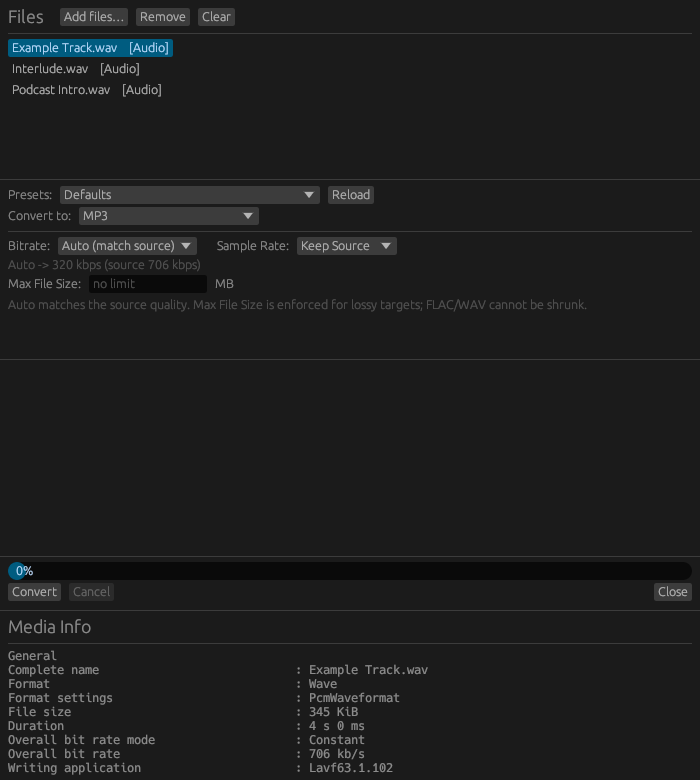
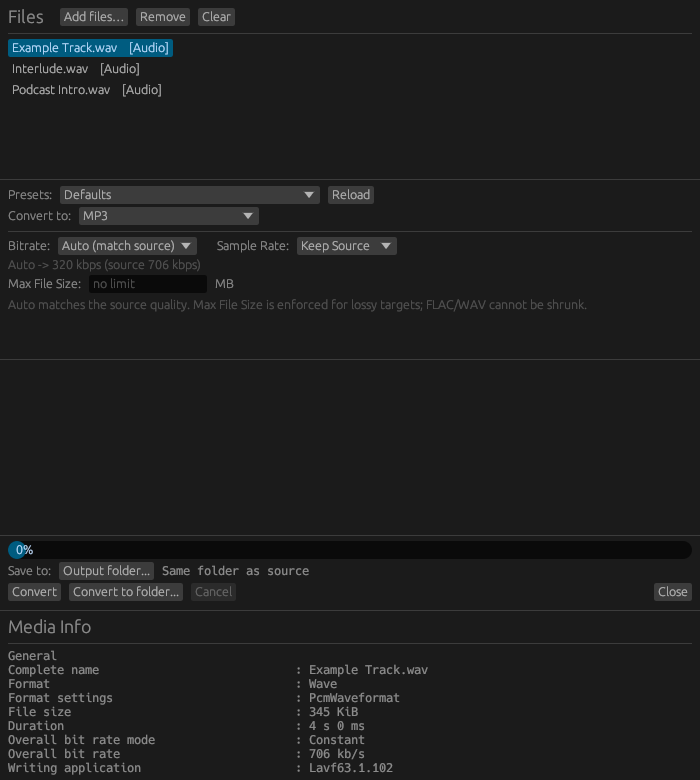
Release 2.0.2

Changed region(s): [[0.0, 0.6769, 0.45, 0.7692]]

diff --git a/README.md b/README.md
@@ -16,7 +16,7 @@
 </p>
 
 <p align="center">
-  <img src="screenshots/File-Converter.png?v=2" alt="File Converter main window">
+  <img src="screenshots/File-Converter.png?v=3" alt="File Converter main window">
 </p>
 
 ---
@@ -28,6 +28,8 @@
   file list, media information, progress, and cancellation.
 - **Command-line interface** for scripts and headless conversions.
 - **Batch processing** with configurable parallelism.
+- **Output folder control** for choosing a destination for every conversion,
+  plus a one-time "Convert to folder..." action.
 - **Automatic quality matching**:
   - Audio bitrate is matched to each source file.
   - WAV/PCM files work even when `ffprobe` omits the stream bitrate.
